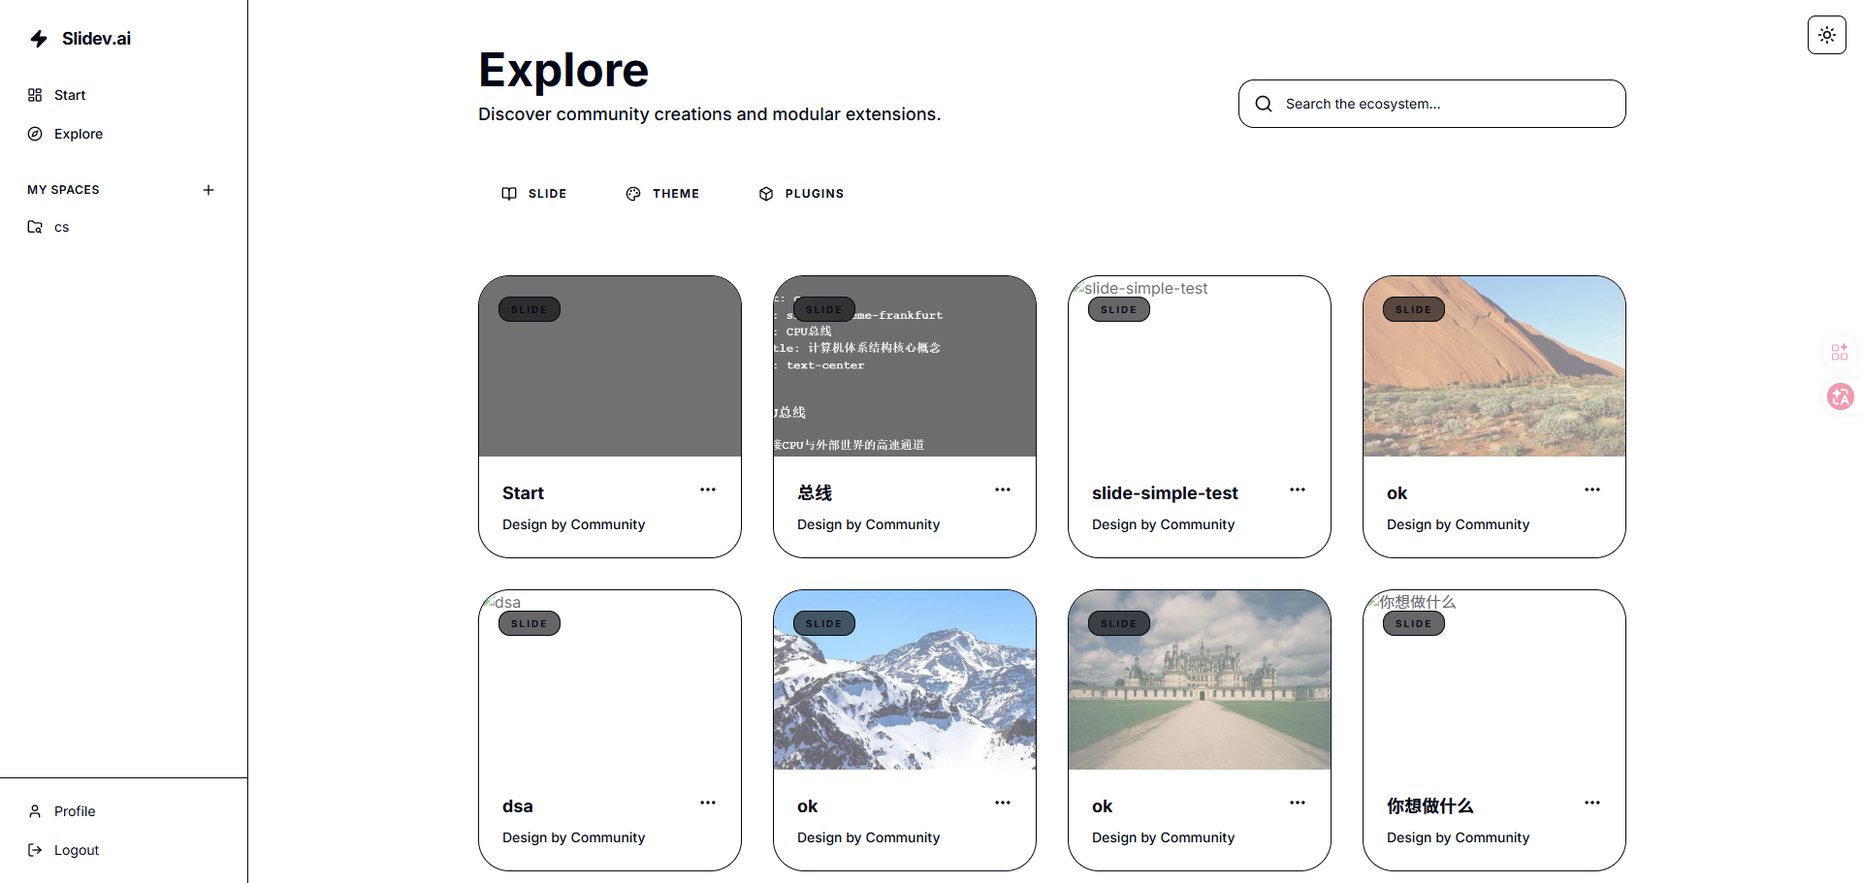
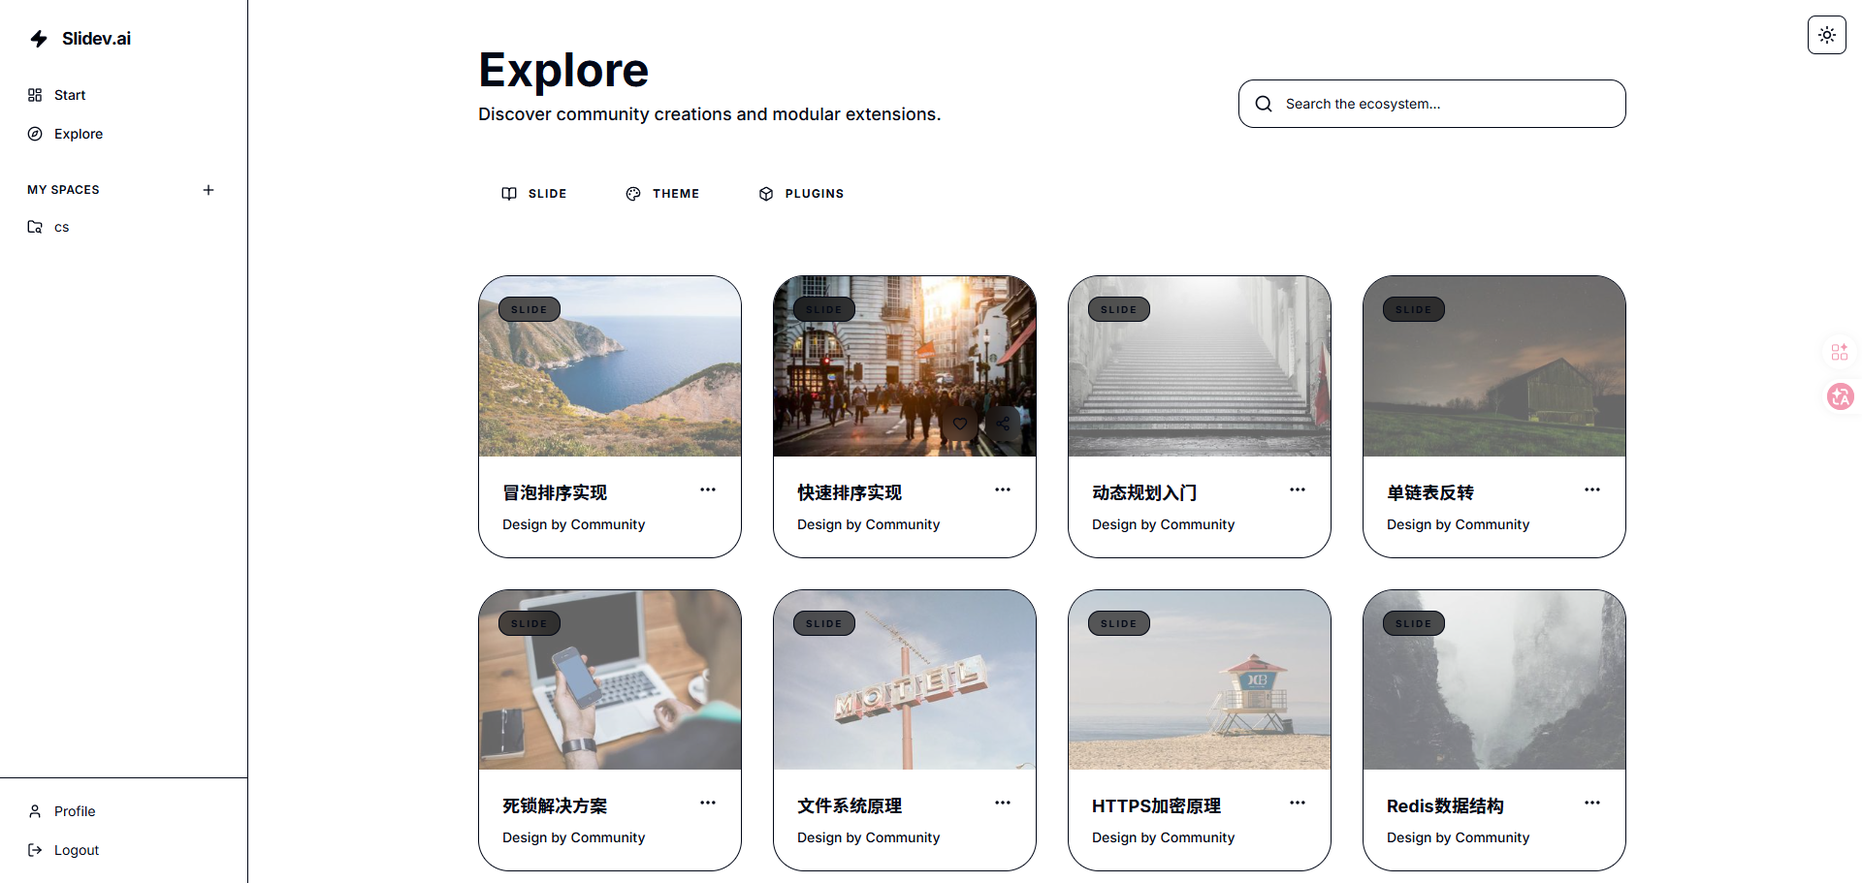
thesis: - 效果图修复 - 对应引用修复

diff --git a/src/thesis/mainmatter/chapter_guidance.tex b/src/thesis/mainmatter/chapter_guidance.tex
@@ -47,16 +47,44 @@
     APPT平台的主要界面包括：
 
     \begin{itemize}
-        \item \textbf{工作台}：用户登录后的主界面，显示幻灯片空间、最近文档和快捷操作入口。
+        \item \textbf{工作台}：用户登录后的主界面，显示幻灯片空间、最近文档和快捷操作入口，如图 \ref{fig:home-interface} 所示。
 
-        \item \textbf{编辑器}：幻灯片编辑界面，分为编辑器区域、预览区域和侧边栏功能面板。
+        \item \textbf{编辑器}：幻灯片编辑界面，分为编辑器区域、预览区域和侧边栏功能面板，如图 \ref{fig:editor-interface} 所示。
 
-        \item \textbf{空间管理}：管理幻灯片空间（SlideSpace）的界面，支持空间创建、成员管理和文档组织。
+        \item \textbf{空间管理}：管理幻灯片空间（SlideSpace）的界面，支持空间创建、成员管理和文档组织，如图 \ref{fig:slideSpace-interface} 所示。
 
         \item \textbf{设置页面}：用户个人设置和系统配置界面，包括账户信息、主题偏好和通知设置。
 
-        \item \textbf{协作面板}：显示当前在线协作者、权限设置和评论系统的功能面板。
+        \item \textbf{协作面板}：显示当前在线协作者、权限设置和评论系统的功能面板，如图 \ref{fig:permission-panel-interface} 所示。
     \end{itemize}
+
+    \begin{figure}[htbp]
+        \centering
+        \includegraphics[width=0.9\textwidth]{figures/appt/start.png}
+        \caption{APPT平台工作台界面}
+        \label{fig:home-interface}
+    \end{figure}
+
+    \begin{figure}[htbp]
+        \centering
+        \includegraphics[width=0.9\textwidth]{figures/appt/editor.png}
+        \caption{APPT平台编辑器界面}
+        \label{fig:editor-interface}
+    \end{figure}
+
+    \begin{figure}[htbp]
+        \centering
+        \includegraphics[width=0.9\textwidth]{figures/appt/slideSpace.png}
+        \caption{APPT平台幻灯片空间管理界面}
+        \label{fig:slideSpace-interface}
+    \end{figure}
+
+    \begin{figure}[htbp]
+        \centering
+        \includegraphics[width=0.9\textwidth]{figures/appt/permission-panel-pure-white.png}
+        \caption{APPT平台权限管理面板界面}
+        \label{fig:permission-panel-interface}
+    \end{figure}
 
     \section{核心功能使用指南}\label{sec:core-features-guide}
 
@@ -99,7 +127,7 @@
 
     \subsection{AI辅助创作}
 
-    APPT平台集成大语言模型API，提供智能内容生成和创作辅助：
+    APPT平台集成大语言模型API，提供智能内容生成和创作辅助，如图 \ref{fig:ai-assistant-interface} 和图 \ref{fig:ai-generate-interface} 所示：
 
     \begin{itemize}
         \item \textbf{AI面板调用}：使用Ctrl+I快捷键或点击编辑器侧边栏的AI图标打开AI辅助面板。AI面板提供内容生成、语法优化和创意建议等功能。
@@ -112,6 +140,20 @@
 
         \item \textbf{图像生成功能}：平台集成AI图像生成能力，可以根据文本描述生成配图，支持技术图表、概念图示和装饰性图片等多种类型。
     \end{itemize}
+
+    \begin{figure}[htbp]
+        \centering
+        \includegraphics[width=0.9\textwidth]{figures/appt/ai-assistant.png}
+        \caption{APPT平台AI辅助功能界面}
+        \label{fig:ai-assistant-interface}
+    \end{figure}
+
+    \begin{figure}[htbp]
+        \centering
+        \includegraphics[width=0.9\textwidth]{figures/appt/ai-gernerate.png}
+        \caption{APPT平台AI内容生成界面}
+        \label{fig:ai-generate-interface}
+    \end{figure}
 
     \begin{leftbar}
         \noindent\textbf{使用建议：}AI辅助功能适合快速生成初稿、获取创意灵感和优化表达方式。建议用户先提供清晰的上下文和具体要求，生成结果后根据需要进行调整和优化。
@@ -145,7 +187,7 @@
 
     \subsection{版本控制系统}
 
-    平台提供简化的版本控制功能，降低Git等专业工具的使用门槛：
+    平台提供简化的版本控制功能，降低Git等专业工具的使用门槛，如图 \ref{fig:version-control-interface} 所示：
 
     \begin{itemize}
         \item \textbf{自动保存机制}：系统定期自动保存文档内容，防止数据丢失。用户也可以使用Ctrl+S快捷键手动保存。
@@ -158,6 +200,13 @@
 
         \item \textbf{一键回滚操作}：选择任意历史版本，点击"回滚到此版本"按钮可以将文档内容恢复到指定版本状态。回滚操作会创建新的版本记录，不影响历史版本数据。
     \end{itemize}
+
+    \begin{figure}[htbp]
+        \centering
+        \includegraphics[width=0.9\textwidth]{figures/appt/version-control-wh&bl.png}
+        \caption{APPT平台版本控制界面}
+        \label{fig:version-control-interface}
+    \end{figure}
 
     % \begin{figure}[htbp]
     %     \centering
@@ -227,7 +276,7 @@
 
     \subsection{代码片段管理}
 
-    平台提供代码片段管理系统，支持可复用代码块的存储和插入：
+    平台提供代码片段管理系统，支持可复用代码块的存储和插入，如图 \ref{fig:snippets-interface} 所示：
 
     \begin{itemize}
         \item \textbf{创建代码片段}：在编辑器中选中代码内容，右键选择"保存为代码片段"，输入片段名称和描述信息。代码片段会保存到用户的个人片段库中。
@@ -236,12 +285,18 @@
 
         \item \textbf{管理片段库}：在设置页面的代码片段管理界面中，用户可以查看、编辑、删除和分类管理所有个人代码片段。
 
-        \item \textbf{共享代码片段}：支持将代码片段分享到团队片段库，团队成员可以共同使用和管理技术代码示例、常用配置模板等。
     \end{itemize}
+
+    \begin{figure}[htbp]
+        \centering
+        \includegraphics[width=0.95\textwidth]{figures/appt/snippets.png}
+        \caption{APPT平台代码片段管理界面}
+        \label{fig:snippets-interface}
+    \end{figure}
 
     \subsection{评论与讨论系统}
 
-    平台集成评论功能，支持文档内容的讨论和反馈：
+    平台集成评论功能，支持文档内容的讨论和反馈，如图 \ref{fig:comment-interface} 所示：
 
     \begin{itemize}
         \item \textbf{添加评论}：在编辑器中选中文本内容，点击出现的评论图标或使用右键菜单添加评论。评论支持Markdown格式，可以包含代码块和链接。
@@ -250,9 +305,16 @@
       
     \end{itemize}
 
+    \begin{figure}[htbp]
+        \centering
+        \includegraphics[width=0.95\textwidth]{figures/appt/comment.png}
+        \caption{APPT平台评论系统界面}
+        \label{fig:comment-interface}
+    \end{figure}
+
     \subsection{幻灯片空间管理}
 
-    幻灯片空间（SlideSpace）是组织和管理幻灯片文档的知识库系统：
+    幻灯片空间（SlideSpace）是组织和管理幻灯片文档的知识库系统，如图 \ref{fig:slideSpace-interface} 和图 \ref{fig:shared-doc-presentation-interface} 所示：
 
     \begin{itemize}
         \item \textbf{创建空间}：在工作台界面点击"创建空间"按钮，输入空间名称、描述和可见性设置。空间可以作为项目、主题或团队的文档集合。
@@ -262,6 +324,13 @@
 
         \item \textbf{全局搜索}：平台提供全局搜索功能，可以跨空间搜索文档标题和内容，快速定位目标文档。
     \end{itemize}
+
+    \begin{figure}[htbp]
+        \centering
+        \includegraphics[width=0.95\textwidth]{figures/appt/shared-doc-presentation.png}
+        \caption{APPT平台共享文档演示界面}
+        \label{fig:shared-doc-presentation-interface}
+    \end{figure}
 
     \subsection{主题与插件系统}
 

diff --git a/src/thesis/mainmatter/chapter_design.tex b/src/thesis/mainmatter/chapter_design.tex
@@ -418,71 +418,69 @@
 
     APPT平台的实体关系如图 \ref{fig:er-diagram} 所示，展示了各表之间的关系：
 
-    \begin{figure}[htbp]
-        \centering
-        \begin{tikzpicture}[
-            entity/.style={rectangle, draw, rounded corners, fill=blue!10, align=center, minimum width=3.5cm, minimum height=1.6cm, text width=3cm, inner sep=0.2cm},
-            relationship/.style={rectangle, draw, fill=green!10, align=center, minimum width=2.0cm, minimum height=0.9cm, inner sep=0.1cm},
-            arrow/.style={->, >=stealth, thick},
-            label/.style={font=\small},
-            scale=0.8, transform shape
-        ]
 
-        % 实体节点 - 上层
-        \node[entity] (user) at (0, 5) {用户表\\users};
-        \node[entity, right=6.5cm of user] (space) {幻灯片空间表\\slide\_spaces};
 
-        % 实体节点 - 中层
-        \node[entity, below=5cm of user] (snippet) {代码片段表\\snippets};
-        \node[entity, below=5cm of space] (slide) {幻灯片表\\slides};
-        \node[entity, right=6.5cm of slide] (comment) {评论表\\slide\_comments};
+\begin{figure}[htbp]
+    \centering
+    \begin{tikzpicture}[
+        entity/.style={rectangle, draw, rounded corners, fill=blue!10, align=center, 
+                      minimum width=3.2cm, minimum height=1.5cm, text width=2.9cm, inner sep=0.2cm},
+        relationship/.style={rectangle, draw, fill=green!10, align=center, 
+                            minimum width=1.8cm, minimum height=0.8cm, inner sep=0.1cm},
+        arrow/.style={->, >=stealth, thick},
+        label/.style={font=\small},
+        scale=0.75, transform shape
+    ]
 
-        % 实体节点 - 下层
-        \node[entity, below=5cm of snippet] (version) {版本控制表\\slide\_versions};
-        \node[entity, below=5cm of slide] (role) {用户角色表\\slide\_user\_roles};
-        \node[entity, below=5cm of comment] (regcode) {注册码表\\registration\_codes};
+    % 实体节点 - 上层
+    \node[entity] (user) at (0, 6) {用户表\\users};
+    \node[entity, right=6cm of user] (space) {幻灯片空间表\\slide\_spaces};
 
-        % 关系节点
-        \node[relationship] (user_space) at ($(user)!0.5!(space) + (0,-0.3cm)$) {拥有};
-        \node[relationship] (space_slide) at ($(space)!0.5!(slide) + (0.3cm,0)$) {包含};
-        \node[relationship] (slide_version) at ($(slide)!0.5!(version) + (0.3cm,0)$) {版本化};
-        \node[relationship] (user_slide) at ($(user)!0.5!(slide) + (-0.2cm,-0.2cm)$) {协作};
-        \node[relationship] (slide_comment) at ($(slide)!0.5!(comment) + (0,0.3cm)$) {评论};
-        \node[relationship] (user_role) at ($(user)!0.5!(role) + (-0.3cm,0)$) {授权};
+    % 实体节点 - 中层
+    \node[entity, below=4.5cm of user] (snippet) {代码片段表\\snippets};
+    \node[entity, below=4.5cm of space] (slide) {幻灯片表\\slides};
+    \node[entity, right=6cm of slide] (comment) {评论表\\slide\_comments};
 
-        % 连接线
-        \draw[arrow] (user) -- node[pos=0.3, above, label] {1} (user_space);
-        \draw[arrow] (user_space) -- node[pos=0.7, above, label] {N} (space);
+    % 实体节点 - 下层
+    \node[entity, below=4.5cm of snippet] (version) {版本控制表\\slide\_versions};
+    \node[entity, below=4.5cm of slide] (role) {用户角色表\\slide\_user\_roles};
+    \node[entity, below=4.5cm of comment] (regcode) {注册码表\\registration\_codes};
 
-        \draw[arrow] (space) -- node[pos=0.3, right, label] {1} (space_slide);
-        \draw[arrow] (space_slide) -- node[pos=0.7, right, label] {N} (slide);
+    % 关系节点
+    \node[relationship] (user_space) at ($(user)!0.5!(space) + (0,-0.25cm)$) {拥有};
+    \node[relationship] (space_slide) at ($(space)!0.5!(slide) + (0.25cm,0)$) {包含};
+    \node[relationship] (slide_version) at ($(slide)!0.5!(version) + (0.25cm,0)$) {版本化};
+    \node[relationship] (user_slide) at ($(user)!0.5!(slide) + (-0.15cm,-0.15cm)$) {协作};
+    \node[relationship] (slide_comment) at ($(slide)!0.5!(comment) + (0,0.25cm)$) {评论};
+    \node[relationship] (user_role) at ($(user)!0.5!(role) + (-0.25cm,0)$) {授权};
 
-        \draw[arrow] (slide) -- node[pos=0.3, right, label] {1} (slide_version);
-        \draw[arrow] (slide_version) -- node[pos=0.7, right, label] {N} (version);
+    % 连接线
+    \draw[arrow] (user) -- node[pos=0.3, above, label] {1} (user_space);
+    \draw[arrow] (user_space) -- node[pos=0.7, above, label] {N} (space);
 
-        \draw[arrow] (user) -- node[pos=0.3, left, label] {1} (user_slide);
-        \draw[arrow] (user_slide) -- node[pos=0.7, above, label] {N} (slide);
+    \draw[arrow] (space) -- node[pos=0.3, right, label] {1} (space_slide);
+    \draw[arrow] (space_slide) -- node[pos=0.7, right, label] {N} (slide);
 
-        \draw[arrow] (slide) -- node[pos=0.3, above, label] {1} (slide_comment);
-        \draw[arrow] (slide_comment) -- node[pos=0.7, above, label] {N} (comment);
+    \draw[arrow] (slide) -- node[pos=0.3, right, label] {1} (slide_version);
+    \draw[arrow] (slide_version) -- node[pos=0.7, right, label] {N} (version);
 
-        \draw[arrow] (user) -- node[pos=0.3, left, label] {1} (user_role);
-        \draw[arrow] (user_role) -- node[pos=0.7, right, label] {N} (role);
+    \draw[arrow] (user) -- node[pos=0.3, left, label] {1} (user_slide);
+    \draw[arrow] (user_slide) -- node[pos=0.7, above, label] {N} (slide);
 
-        % 其他实体连接
-        \draw[arrow, dashed] (user) -- node[pos=0.3, left, label] {创建} (snippet);
-        \draw[arrow, dashed] (user) -- node[pos=0.7, below right, label] {使用} (regcode);
+    \draw[arrow] (slide) -- node[pos=0.3, above, label] {1} (slide_comment);
+    \draw[arrow] (slide_comment) -- node[pos=0.7, above, label] {N} (comment);
 
-        % % 图例
-        % \node[entity, below=2cm of version, fill=blue!5] (legend_entity) {实体};
-        % \node[relationship, right=2.5cm of legend_entity, fill=green!5] (legend_rel) {关系};
-        % \draw[arrow] (legend_entity) -- node[above, label] {1:N} (legend_rel);
+    \draw[arrow] (user) -- node[pos=0.3, left, label] {1} (user_role);
+    \draw[arrow] (user_role) -- node[pos=0.7, right, label] {N} (role);
 
-        \end{tikzpicture}
-        \caption{APPT平台实体关系图}
-        \label{fig:er-diagram}
-    \end{figure}
+    % 标准实线连接，无遮挡
+    \draw[arrow] (user) -- node[pos=0.5, left, label] {创建} (snippet);
+    \draw[arrow] (user.east) to[out=-30, in=120] node[pos=0.6, right, label] {使用} (regcode.north);
 
+    \end{tikzpicture}
+    \caption{APPT平台实体关系图}
+    \label{fig:er-diagram}
+\end{figure}
     主要关系包括：
     \begin{itemize}
         \item \textbf{用户与空间}：一个用户可以拥有多个幻灯片空间（一对多关系）。

diff --git a/src/thesis/diagrams/er.tex b/src/thesis/diagrams/er.tex
@@ -1,0 +1,57 @@
+% er_diagram.tex  —— 单独存放ER图
+\begin{tikzpicture}[
+    entity/.style={rectangle, draw, rounded corners, fill=blue!10, align=center, 
+                  minimum width=3.2cm, minimum height=1.5cm, text width=2.9cm, inner sep=0.2cm},
+    relationship/.style={rectangle, draw, fill=green!10, align=center, 
+                        minimum width=1.8cm, minimum height=0.8cm, inner sep=0.1cm},
+    arrow/.style={->, >=stealth, thick},
+    label/.style={font=\small},
+    scale=0.75, transform shape
+]
+
+% 实体节点 - 上层
+\node[entity] (user) at (0, 4.8) {用户表\\users};
+\node[entity, right=5.5cm of user] (space) {幻灯片空间表\\slide\_spaces};
+
+% 实体节点 - 中层
+\node[entity, below=4.2cm of user] (snippet) {代码片段表\\snippets};
+\node[entity, below=4.2cm of space] (slide) {幻灯片表\\slides};
+\node[entity, right=5.5cm of slide] (comment) {评论表\\slide\_comments};
+
+% 实体节点 - 下层
+\node[entity, below=4.2cm of snippet] (version) {版本控制表\\slide\_versions};
+\node[entity, below=4.2cm of slide] (role) {用户角色表\\slide\_user\_roles};
+\node[entity, below=4.2cm of comment] (regcode) {注册码表\\registration\_codes};
+
+% 关系节点
+\node[relationship] (user_space) at ($(user)!0.5!(space) + (0,-0.25cm)$) {拥有};
+\node[relationship] (space_slide) at ($(space)!0.5!(slide) + (0.25cm,0)$) {包含};
+\node[relationship] slide_version) at ($(slide)!0.5!(version) + (0.25cm,0)$) {版本化};
+\node[relationship] (user_slide) at ($(user)!0.5!(slide) + (-0.15cm,-0.15cm)$) {协作};
+\node[relationship] (slide_comment) at ($(slide)!0.5!(comment) + (0,0.25cm)$) {评论};
+\node[relationship] (user_role) at ($(user)!0.5!(role) + (-0.25cm,0)$) {授权};
+
+% 连接线
+\draw[arrow] (user) -- node[pos=0.3, above, label] {1} (user_space);
+\draw[arrow] (user_space) -- node[pos=0.7, above, label] {N} (space);
+
+\draw[arrow] (space) -- node[pos=0.3, right, label] {1} (space_slide);
+\draw[arrow] (space_slide) -- node[pos=0.7, right, label] {N} (slide);
+
+\draw[arrow] (slide) -- node[pos=0.3, right, label] {1} (slide_version);
+\draw[arrow] (slide_version) -- node[pos=0.7, right, label] {N} (version);
+
+\draw[arrow] (user) -- node[pos=0.3, left, label] {1} (user_slide);
+\draw[arrow] (user_slide) -- node[pos=0.7, above, label] {N} (slide);
+
+\draw[arrow] (slide) -- node[pos=0.3, above, label] {1} (slide_comment);
+\draw[arrow] (slide_comment) -- node[pos=0.7, above, label] {N} (comment);
+
+\draw[arrow] (user) -- node[pos=0.3, left, label] {1} (user_role);
+\draw[arrow] (user_role) -- node[pos=0.7, right, label] {N} (role);
+
+% 其他实体连接
+\draw[arrow, dashed] (user) -- node[pos=0.3, left, label] {创建} (snippet);
+\draw[arrow, dashed] (user) -- node[pos=0.7, below right, label] {使用} (regcode);
+
+\end{tikzpicture}

diff --git a/src/thesis/mainmatter/chapter_introduction.tex b/src/thesis/mainmatter/chapter_introduction.tex
@@ -14,7 +14,7 @@
 
 	\section{研究背景}\label{sec:background}
 
-	随着信息技术的快速发展和数字化办公的普及，幻灯片演示已成为教育、商业、科研等领域不可或缺的沟通工具。传统的幻灯片制作工具如Microsoft PowerPoint和Apple Keynote采用所见即所得的编辑模式，虽然直观易用，但在团队协作、版本控制、代码展示等方面存在明显局限性。随着远程协作和分布式工作模式的兴起，对支持多人实时协作、版本管理和智能辅助的幻灯片制作工具需求日益增长。
+	随着信息技术的快速发展和数字化办公的普及，幻灯片演示已成为教育、商业、科研等领域不可或缺的沟通工具。传统的幻灯片制作工具如Microsoft PowerPoint和Apple Keynote采用所见即所得的编辑模式，虽然直观易用，但在团队协作、版本控制、代码展示等方面存在明显局限性。随着远程协作的兴起，对支持多人实时协作、版本管理和智能辅助的幻灯片制作工具需求日益增长。
 
 	近年来，基于Web技术的轻量化幻灯片工具逐渐受到开发者和技术人员的青睐。以Reveal.js、Marp、Slidev等为代表的工具，采用Markdown语法编写幻灯片内容，结合现代Web技术栈实现丰富的交互效果。特别是Slidev（slide + dev）作为一个专门为开发者设计的现代幻灯片制作工具，整合了Vue.js组件系统和丰富的插件生态，在开发者社区中获得了广泛应用。
 
@@ -33,7 +33,7 @@
 
 		\item \textbf{探索AI辅助创作模式}：研究大语言模型在幻灯片内容生成与优化中的应用，探索人机协作的智能创作模式，为AI辅助内容创作提供理论参考。
 
-		\item \textbf{完善权限管理模型}：基于RBAC（基于角色的访问控制）模型，设计适用于幻灯片协作场景的细粒度权限管理系统，为云端文档协作权限控制提供理论指导。
+		\item \textbf{完善权限管理模型}：基于RBAC（基于角色的访问控制）模型，设计适用于幻灯片协作场景的细粒度权限管理系统。
 	\end{itemize}
 
 	\subsection{实践意义}
@@ -121,6 +121,7 @@
 
 	\textbf{第五章 总结与展望}：总结平台开发的主要成果和特点，分析存在的不足，并对未来的改进方向和发展前景进行展望。
 
-	此外，论文还包括参考文献、致谢和附录等部分，提供补充信息和资源。
+	% 此外，论文还包括参考文献、致谢和附录等部分，提供补充信息和资源。
+	此外，论文还包括参考文献、致谢等部分，提供补充信息和资源。
 
 \end{cuzchapter}

diff --git a/src/thesis/mainmatter/chapter_literature.tex b/src/thesis/mainmatter/chapter_literature.tex
@@ -14,7 +14,7 @@
 
 		\subsection{CRDT算法与操作转换技术}
 
-		实时协作编辑系统的核心技术包括无冲突复制数据类型（CRDT）算法和操作转换（OT）技术。CRDT算法通过设计数据结构确保在分布式环境下操作的交换性、结合性和幂等性，从而实现无冲突的最终一致性。相比之下，OT技术通过转换并发操作来解决冲突，需要中心服务器进行协调。近年来，CRDT算法因其去中心化特性和更强的容错能力，在Web实时协作领域得到广泛应用。
+		实时协作编辑系统的核心技术包括无冲突复制数据类型（CRDT\cite{lv2022crdt}）算法和操作转换（OT）技术。CRDT算法通过设计数据结构确保在分布式环境下操作的交换性、结合性和幂等性，从而实现无冲突的最终一致性。相比之下，OT技术通过转换并发操作来解决冲突，需要中心服务器进行协调。近年来，CRDT算法因其去中心化特性和更强的容错能力，在Web实时协作领域得到广泛应用。
 
 		Yjs作为基于CRDT的高性能实时协作库，提供了文档状态同步和冲突解决机制。它通过使用基于链表的高效CRDT数据结构，支持任意位置插入和删除操作，在保持低内存占用的同时提供良好的性能表现。Yjs框架已成功应用于多个知名协作工具，如CodeMirror 6、ProseMirror等。
 
@@ -72,7 +72,7 @@
 
 		\subsection{文档差异对比算法}
 
-		文档差异对比是版本控制系统的核心功能。Myers差分算法等文本比较算法可以高效地计算文档差异。APPT平台使用diff库实现文档内容差异对比，帮助用户直观了解版本间的变化。
+		文档差异对比是版本控制系统的核心功能。APPT平台使用diff库实现文档内容差异对比，帮助用户直观了解版本间的变化。
 
 		\section{现代Web幻灯片工具研究现状}\label{sec:slideshow-tools}
 
@@ -99,7 +99,6 @@
 
 			\item \textbf{权限管理的用户体验研究不足}：大多数权限管理系统注重安全性，但对非技术用户的易用性考虑不够充分。
 
-			\item \textbf{AI生成内容与幻灯片语法的适配性差}：现有AI工具生成的幻灯片内容往往需要手动调整才能符合Slidev等工具的语法要求。
 
 			\item \textbf{版本控制工具的学习门槛高}：Git等专业版本控制工具对非技术用户存在较高的学习成本，缺乏简化操作界面。
 
